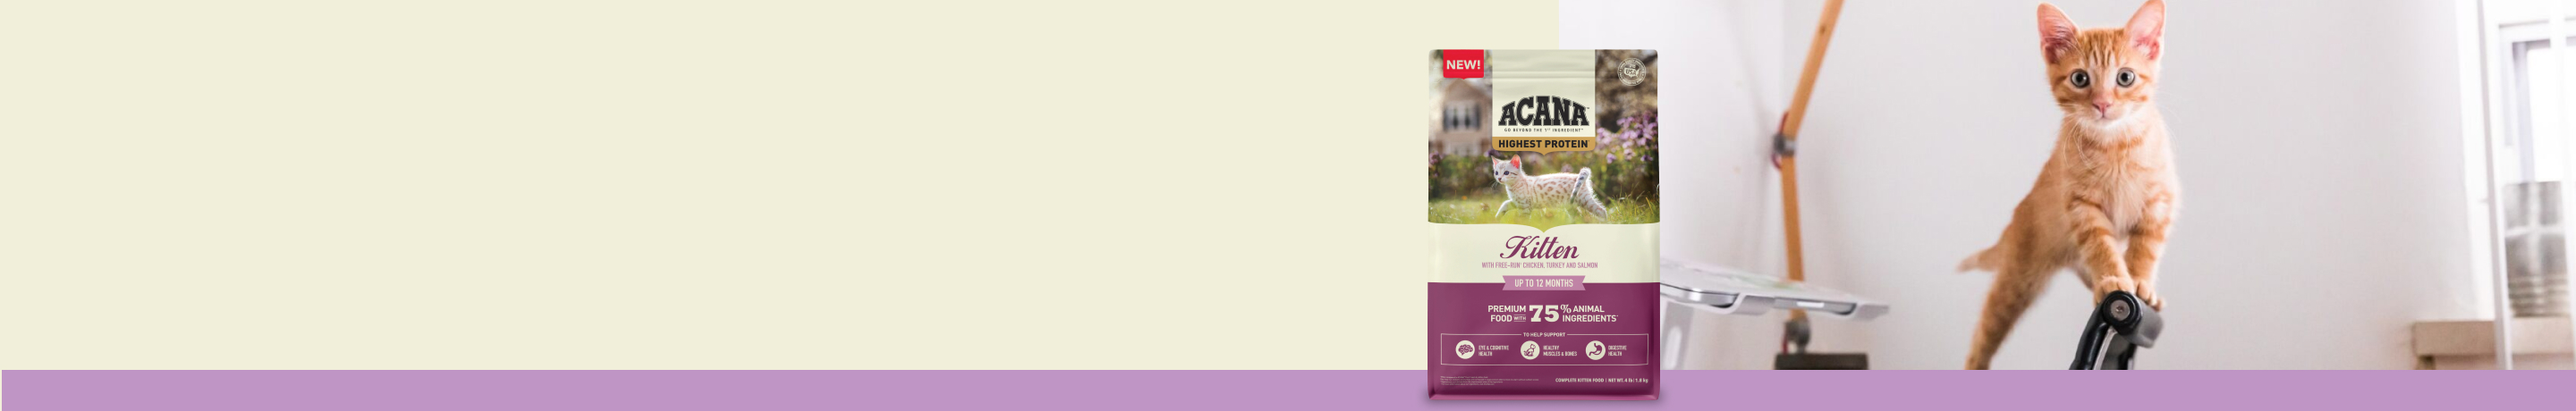
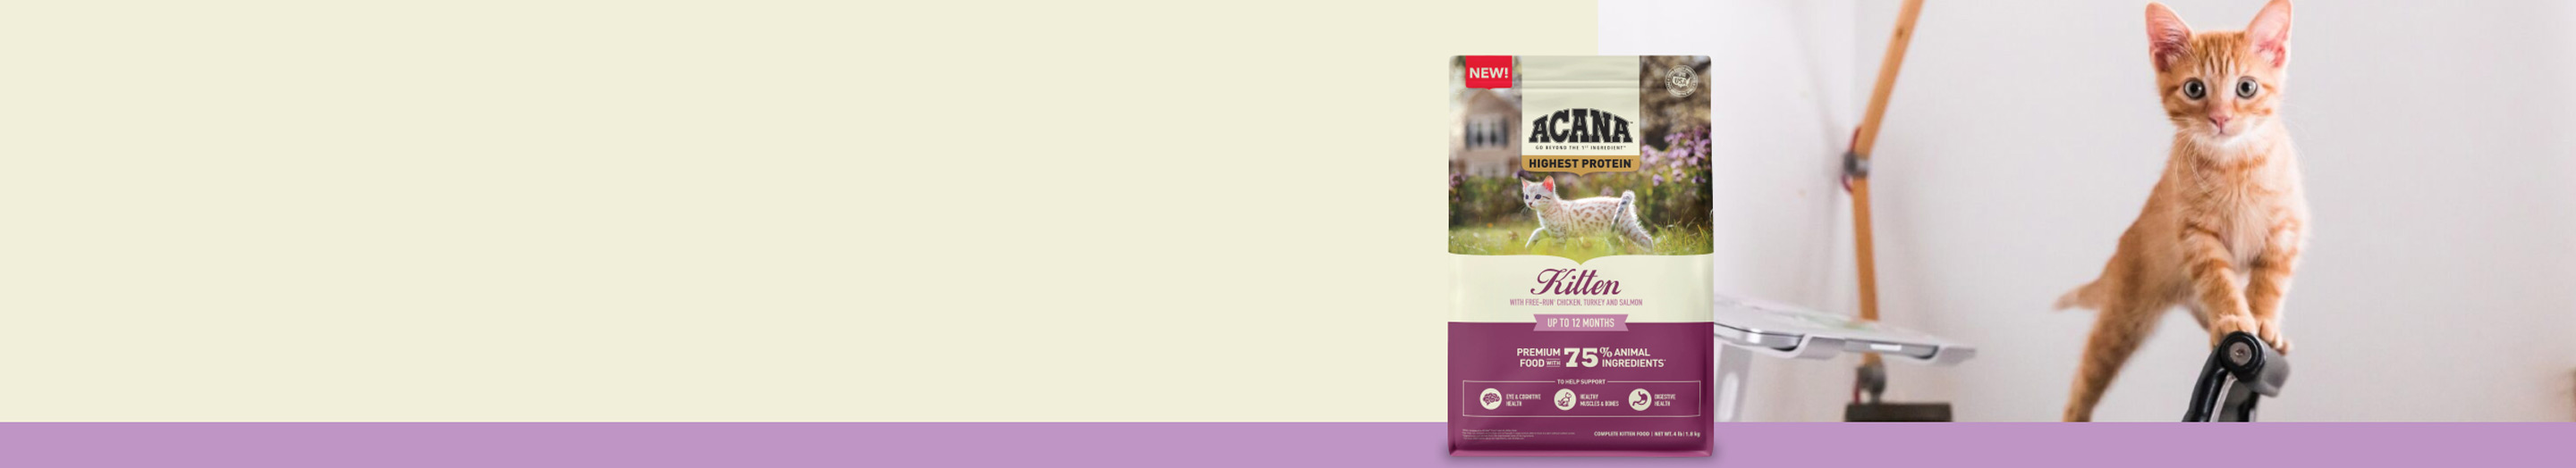
QA feedback updated for hero pov and product scroller

Changed region(s): [[0.5312, 0.0, 1.0, 1.0]]

diff --git a/carousal.css b/carousal.css
@@ -143,6 +143,7 @@ p.citrusStylesSE_pov-text__subhead {
 .citrusStylesSE_pov-text p.citrusStylesSE__disclaimer {
   margin-top: 18px;
   font-size: 12px;
+  line-height: 14px;
   color: #505827;
   text-align: center;
 }
@@ -231,6 +232,7 @@ p.citrusStylesSE_pov-text__subhead {
     line-height: 40px;
   }
 }
+
 @media screen and (min-width: 1024px) and (max-width: 1300px) {
   h1.citrusStylesSE_pov-text__title {
     font-size: 26px;
@@ -269,6 +271,14 @@ p.citrusStylesSE_pov-text__subhead {
     line-height: normal;
   }
 }
+
+@media (min-width: 48em) and (max-width: 63.999em) {
+  .citrusStylesSE-btn-primary-navy .citrusStylesSE-url,
+  .citrusStylesSE-btn-secondary-white .citrusStylesSE-url {
+    line-height: 30px;
+  }
+}
+
 @media only screen and (max-width: 767px) {
   .citrusStylesSE-carousel
     .citrusStylesSE-carousel__inner
@@ -339,7 +349,7 @@ p.citrusStylesSE_pov-text__subhead {
   .citrusStylesSE_pov-text .citrusStylesSE-btn-secondary-white {
     line-height: normal;
     justify-content: center;
-    margin-bottom: 10px;
+    margin-bottom: 5px;
     width: max-content;
   }
   .citrusStylesSE_pov-text p.citrusStylesSE__disclaimer {

diff --git a/style.css b/style.css
@@ -40,8 +40,8 @@ body {
 }
 
 @media screen and (min-width: 20em) {
-  .citrusStylesSE-url {
-    padding: var(--citrusStylesSE-spacing-small);
+  .citrusStylesSE-btn-primary-underline-navy .citrusStylesSE-url {
+    padding: var(--citrusStylesSE-spacing-small) 0;
   }
 }
 
